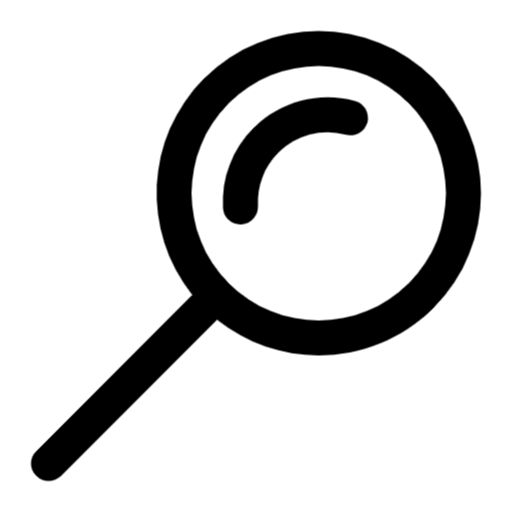
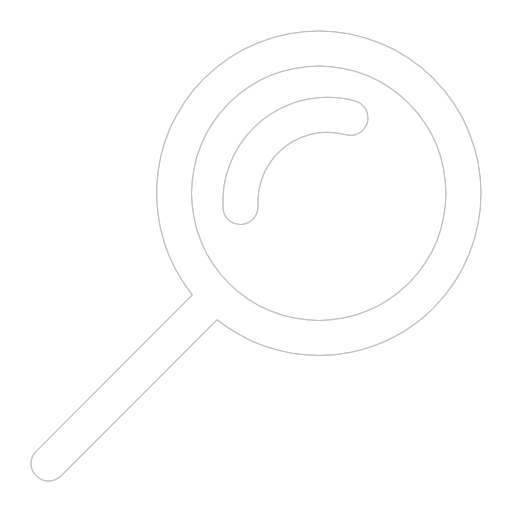
Add customer product reviews and slight UI change

Changed region(s): [[0.0625, 0.0625, 0.9375, 0.9375], [0.4375, 0.1875, 0.7188, 0.4375]]

diff --git a/frontend/src/screens/ProductScreen.js b/frontend/src/screens/ProductScreen.js
@@ -1,10 +1,11 @@
 import axios from 'axios';
-import { useContext, useEffect, useReducer } from 'react';
-import { useNavigate, useParams } from 'react-router-dom';
+import { useContext, useEffect, useReducer, useRef, useState } from 'react';
+import { Link, useNavigate, useParams } from 'react-router-dom';
 import Row from 'react-bootstrap/Row';
 import Col from 'react-bootstrap/Col';
 import Card from 'react-bootstrap/Card';
 import ListGroup from 'react-bootstrap/ListGroup';
+import Form from 'react-bootstrap/Form';
 import Badge from 'react-bootstrap/Badge';
 import Button from 'react-bootstrap/Button';
 import Rating from '../components/Rating';
@@ -13,8 +14,18 @@ import LoadingBox from '../components/LoadingBox';
 import MessageBox from '../components/MessageBox';
 import { getError } from '../utils';
 import { Store } from '../Store';
+import FloatingLabel from 'react-bootstrap/FloatingLabel';
+import { toast } from 'react-toastify';
 const reducer = (state, action) => {
   switch (action.type) {
+    case 'REFRESH_PRODUCT':
+      return { ...state, product: action.payload };
+    case 'CREATE_REQUEST':
+      return { ...state, loadingCreateReview: true };
+    case 'CREATE_SUCCESS':
+      return { ...state, loadingCreateReview: false };
+    case 'CREATE_FAIL':
+      return { ...state, loadingCreateReview: false };
     case 'FETCH_REQUEST':
       return { ...state, loading: true };
     case 'FETCH_SUCCESS':
@@ -26,14 +37,19 @@ const reducer = (state, action) => {
   }
 };
 function ProductScreen() {
+  let reviewsRef = useRef();
+
+  const [rating, setRating] = useState(0);
+  const [comment, setComment] = useState('');
   const navigate = useNavigate();
   const params = useParams();
   const { slug } = params;
-  const [{ loading, error, product }, dispatch] = useReducer(reducer, {
-    product: [],
-    loading: true,
-    error: '',
-  });
+  const [{ loading, error, product, loadingCreateReview }, dispatch] =
+    useReducer(reducer, {
+      product: [],
+      loading: true,
+      error: '',
+    });
   useEffect(() => {
     const fetchData = async () => {
       dispatch({ type: 'FETCH_REQUEST' });
@@ -47,7 +63,7 @@ function ProductScreen() {
     fetchData();
   }, [slug]);
   const { state, dispatch: ctxDispatch } = useContext(Store);
-  const { cart } = state;
+  const { cart, userInfo } = state;
   const addToCartHandler = async () => {
     const existItem = cart.cartItems.find((x) => x._id === product._id);
     const quantity = existItem ? existItem.quantity + 1 : 1;
@@ -61,6 +77,38 @@ function ProductScreen() {
       payload: { ...product, quantity },
     });
     navigate('/cart');
+  };
+  const submitHandler = async (e) => {
+    e.preventDefault();
+    if (!comment || !rating) {
+      toast.error('Please enter comment and rating');
+      return;
+    }
+    try {
+      const { data } = await axios.post(
+        `/api/products/${product._id}/reviews`,
+        { rating, comment, name: userInfo.name },
+        {
+          headers: { Authorization: `Bearer ${userInfo.token}` },
+        }
+      );
+
+      dispatch({
+        type: 'CREATE_SUCCESS',
+      });
+      toast.success('Review submitted successfully');
+      product.reviews.unshift(data.review);
+      product.numReviews = data.numReviews;
+      product.rating = data.rating;
+      dispatch({ type: 'REFRESH_PRODUCT', payload: product });
+      window.scrollTo({
+        behavior: 'smooth',
+        top: reviewsRef.current.offsetTop,
+      });
+    } catch (error) {
+      toast.error(getError(error));
+      dispatch({ type: 'CREATE_FAIL' });
+    }
   };
   return loading ? (
     <LoadingBox />
@@ -129,6 +177,73 @@ function ProductScreen() {
           </Card>
         </Col>
       </Row>
+      <div className="my-3">
+        <h2 ref={reviewsRef}>Reviews</h2>
+        <div className="mb-3">
+          {product.reviews.length === 0 && (
+            <MessageBox>There is no review</MessageBox>
+          )}
+        </div>
+        <ListGroup>
+          {product.reviews.map((review) => (
+            <ListGroup.Item key={review._id}>
+              <strong>{review.name}</strong>
+              <Rating rating={review.rating} caption=" "></Rating>
+              <p>{review.createdAt.substring(0, 10)}</p>
+              <p>{review.comment}</p>
+            </ListGroup.Item>
+          ))}
+        </ListGroup>
+        <div className="my-3">
+          {userInfo ? (
+            <form onSubmit={submitHandler}>
+              <h2>Write a customer review</h2>
+              <Form.Group className="mb-3" controlId="rating">
+                <Form.Label>Rating</Form.Label>
+                <Form.Select
+                  aria-label="Rating"
+                  value={rating}
+                  onChange={(e) => setRating(e.target.value)}
+                >
+                  <option value="">Select...</option>
+                  <option value="1">1- Poor</option>
+                  <option value="2">2- Fair</option>
+                  <option value="3">3- Good</option>
+                  <option value="4">4- Very good</option>
+                  <option value="5">5- Excelent</option>
+                </Form.Select>
+              </Form.Group>
+              <FloatingLabel
+                controlId="floatingTextarea"
+                label="Comments"
+                className="mb-3"
+              >
+                <Form.Control
+                  as="textarea"
+                  placeholder="Leave a comment here"
+                  value={comment}
+                  onChange={(e) => setComment(e.target.value)}
+                />
+              </FloatingLabel>
+
+              <div className="mb-3">
+                <Button disabled={loadingCreateReview} type="submit">
+                  Submit
+                </Button>
+                {loadingCreateReview && <LoadingBox></LoadingBox>}
+              </div>
+            </form>
+          ) : (
+            <MessageBox>
+              Please{' '}
+              <Link to={`/signin?redirect=/product/${product.slug}`}>
+                Sign In
+              </Link>{' '}
+              to write a review
+            </MessageBox>
+          )}
+        </div>
+      </div>
     </div>
   );
 }

diff --git a/frontend/src/components/SearchBox.js b/frontend/src/components/SearchBox.js
@@ -1,5 +1,6 @@
 import React, { useState } from 'react';
 import Button from 'react-bootstrap/Button';
+import Dropdown from 'react-bootstrap/DropdownButton';
 import Form from 'react-bootstrap/Form';
 import InputGroup from 'react-bootstrap/InputGroup';
 import FormControl from 'react-bootstrap/FormControl';
@@ -14,21 +15,28 @@ export default function SearchBox() {
   };
 
   return (
-    <Form className="d-flex me-auto" onSubmit={submitHandler}>
-      <InputGroup>
-        <FormControl
-          type="text"
-          name="q"
-          id="q"
-          onChange={(e) => setQuery(e.target.value)}
-          placeholder="search products..."
-          aria-label="Search Products"
-          aria-describedby="button-search"
-        ></FormControl>
-        <Button variant="outline-primary" type="submit" id="button-search">
-          <i className="fas fa-search"></i>
-        </Button>
-      </InputGroup>
-    </Form>
+    <Dropdown>
+      <Dropdown.Toggle variant="success" id="dropdown-basic">
+        <img src="/Image/search.png" />
+      </Dropdown.Toggle>
+      <Dropdown.Menu>
+        <Form className="d-flex me-auto" onSubmit={submitHandler}>
+          <InputGroup>
+            <FormControl
+              type="text"
+              name="q"
+              id="q"
+              onChange={(e) => setQuery(e.target.value)}
+              placeholder="search"
+              aria-label="Search Products"
+              aria-describedby="button-search"
+            ></FormControl>
+            <Button variant="outline-primary" type="submit" id="button-search">
+              <i className="fas fa-search"></i>
+            </Button>
+          </InputGroup>
+        </Form>
+      </Dropdown.Menu>
+    </Dropdown>
   );
 }

diff --git a/backend/routes/productRoutes.js b/backend/routes/productRoutes.js
@@ -65,6 +65,41 @@ productRouter.delete(
     }
   })
 );
+productRouter.post(
+  '/:id/reviews',
+  isAuth,
+  expressAsyncHandler(async (req, res) => {
+    const productId = req.params.id;
+    const product = await Product.findById(productId);
+    if (product) {
+      if (product.reviews.find((x) => x.name === req.user.name)) {
+        return res
+          .status(400)
+          .send({ message: 'You already submitted a review' });
+      }
+
+      const review = {
+        name: req.user.name,
+        rating: Number(req.body.rating),
+        comment: req.body.comment,
+      };
+      product.reviews.push(review);
+      product.numReviews = product.reviews.length;
+      product.rating =
+        product.reviews.reduce((a, c) => c.rating + a, 0) /
+        product.reviews.length;
+      const updatedProduct = await product.save();
+      res.status(201).send({
+        message: 'Review Created',
+        review: updatedProduct.reviews[updatedProduct.reviews.length - 1],
+        numReviews: product.numReviews,
+        rating: product.rating,
+      });
+    } else {
+      res.status(404).send({ message: 'Product Not Found' });
+    }
+  })
+);
 const PAGE_SIZE = 3;
 productRouter.get(
   '/admin',

diff --git a/backend/models/productModel.js b/backend/models/productModel.js
@@ -1,5 +1,14 @@
 import mongoose from 'mongoose';
-
+const reviewSchema = new mongoose.Schema(
+  {
+    name: { type: String, required: true },
+    comment: { type: String, required: true },
+    rating: { type: Number, required: true },
+  },
+  {
+    timestamps: true,
+  }
+);
 const productSchema = new mongoose.Schema(
   {
     name: { type: String, required: true, unique: true },
@@ -12,6 +21,7 @@ const productSchema = new mongoose.Schema(
     countInStock: { type: Number, required: true },
     rating: { type: Number, required: true },
     numReviews: { type: Number, required: true },
+    reviews: [reviewSchema],
   },
   {
     timestamps: true,
